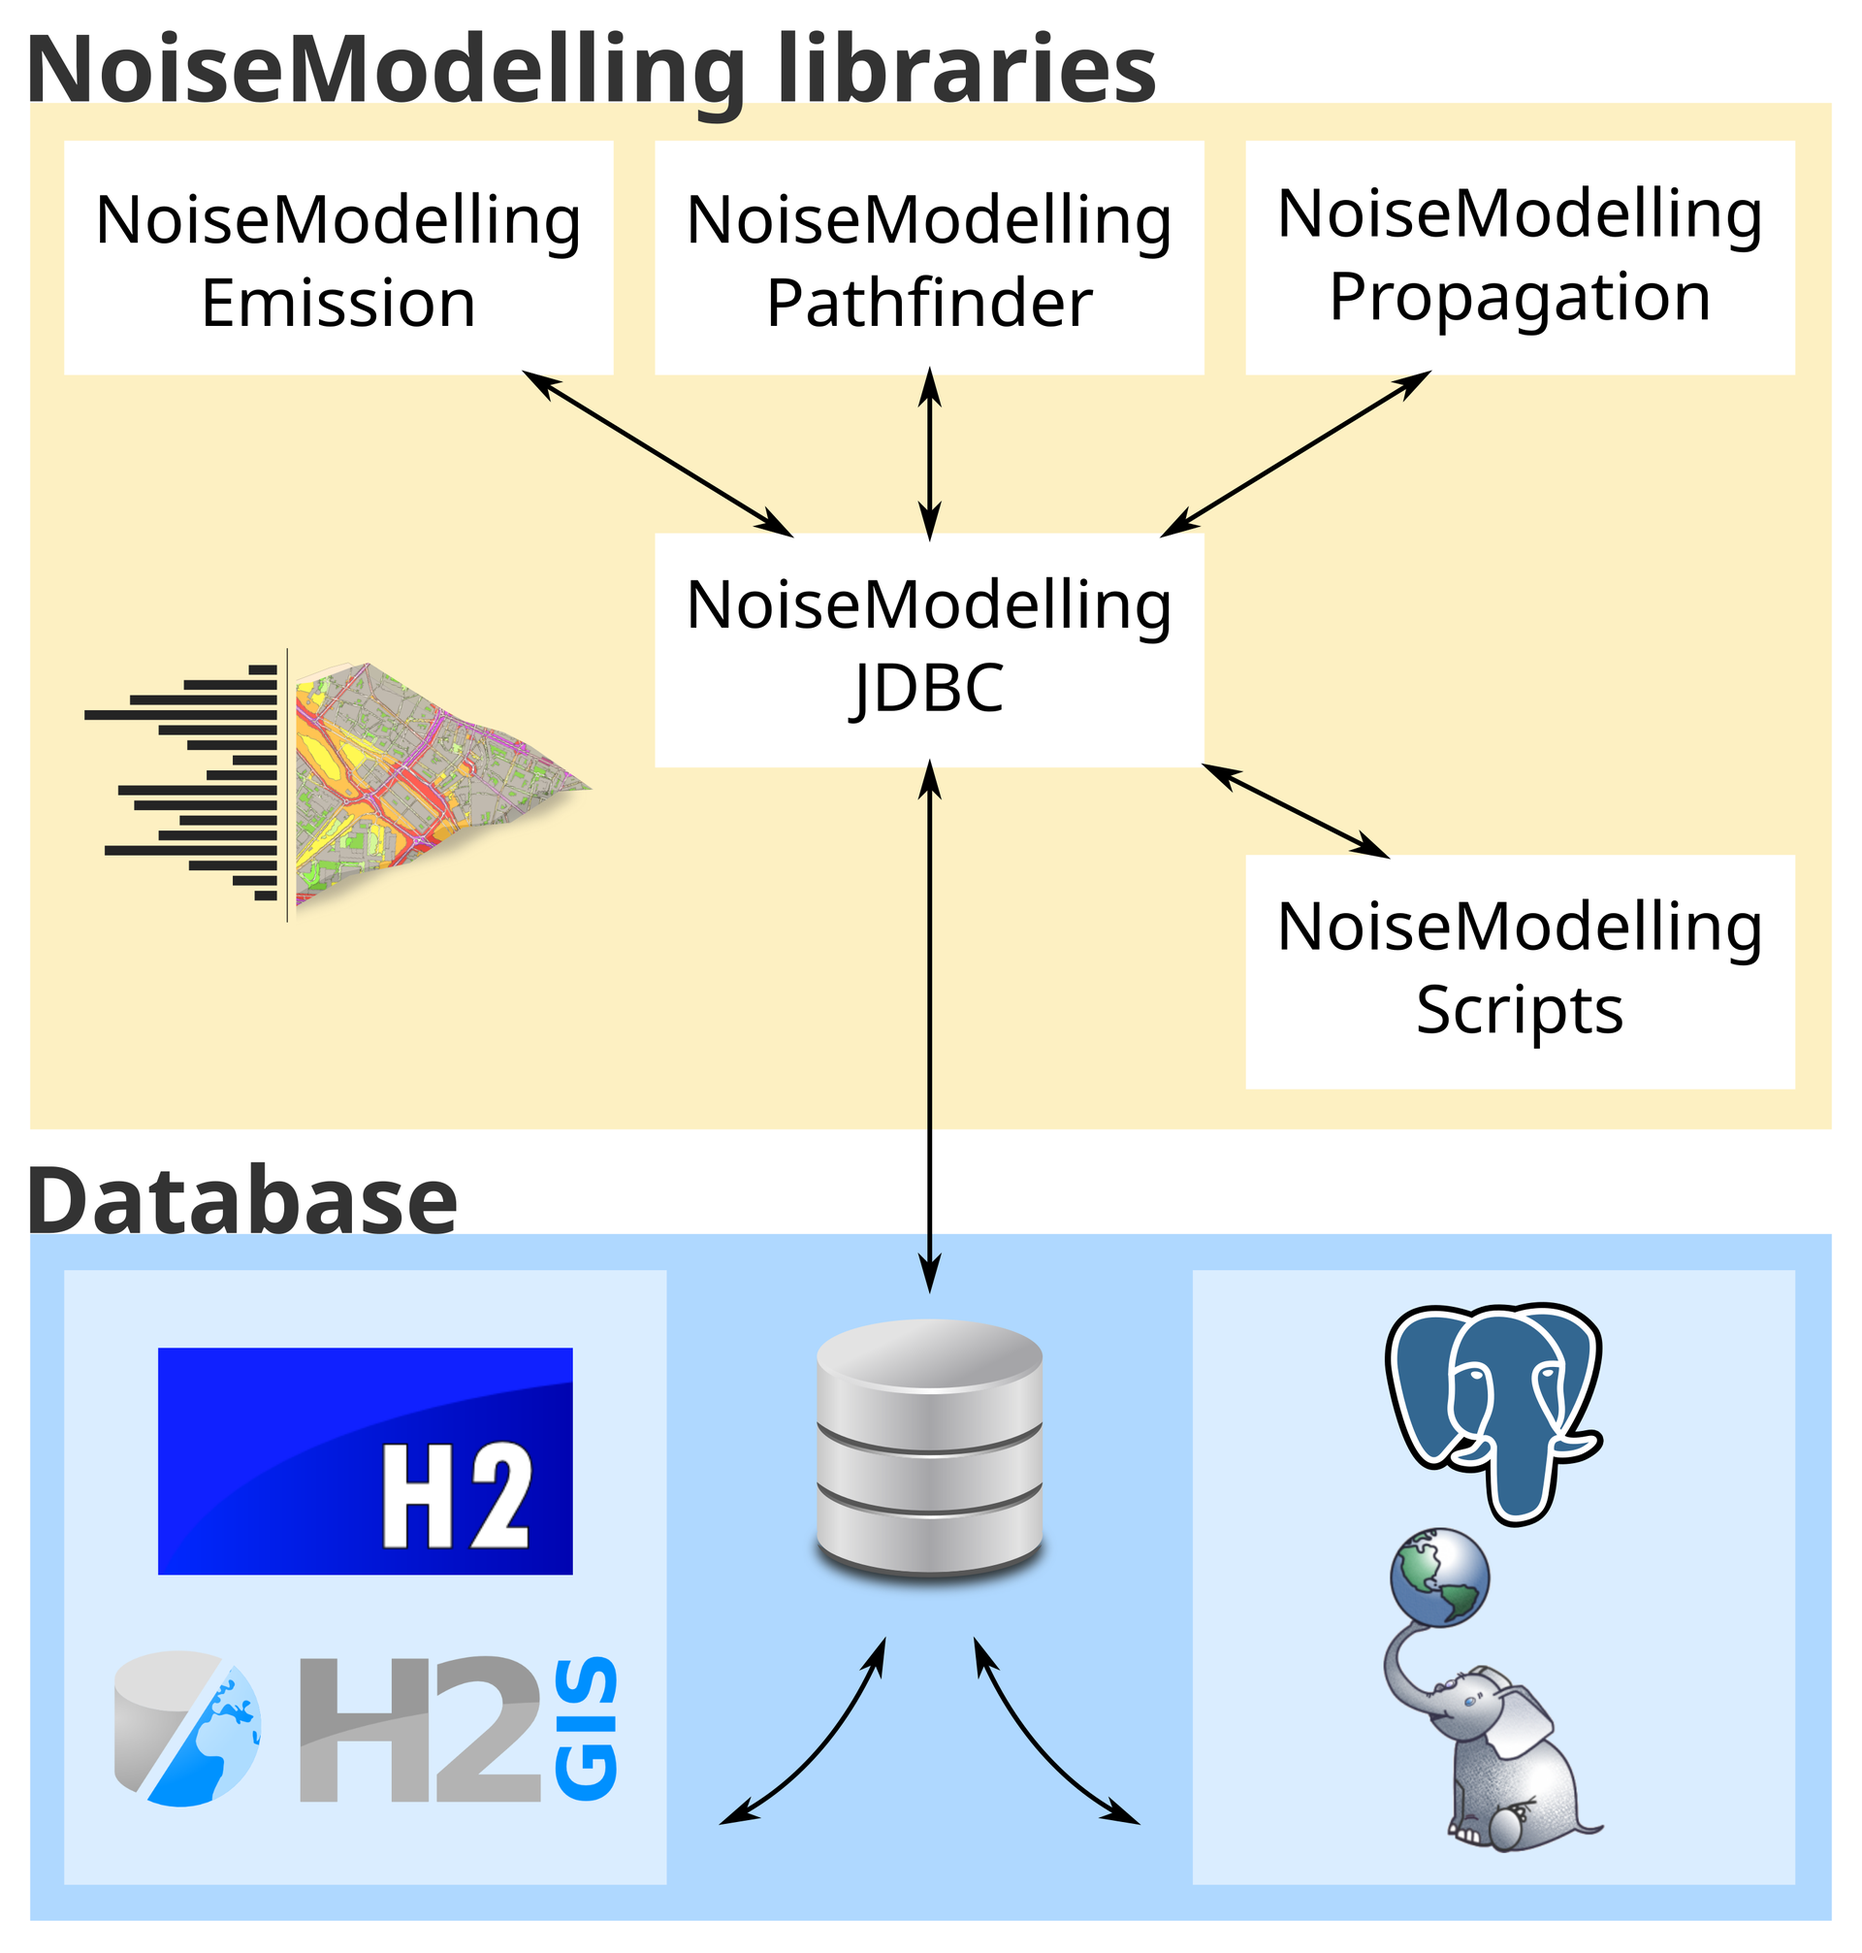
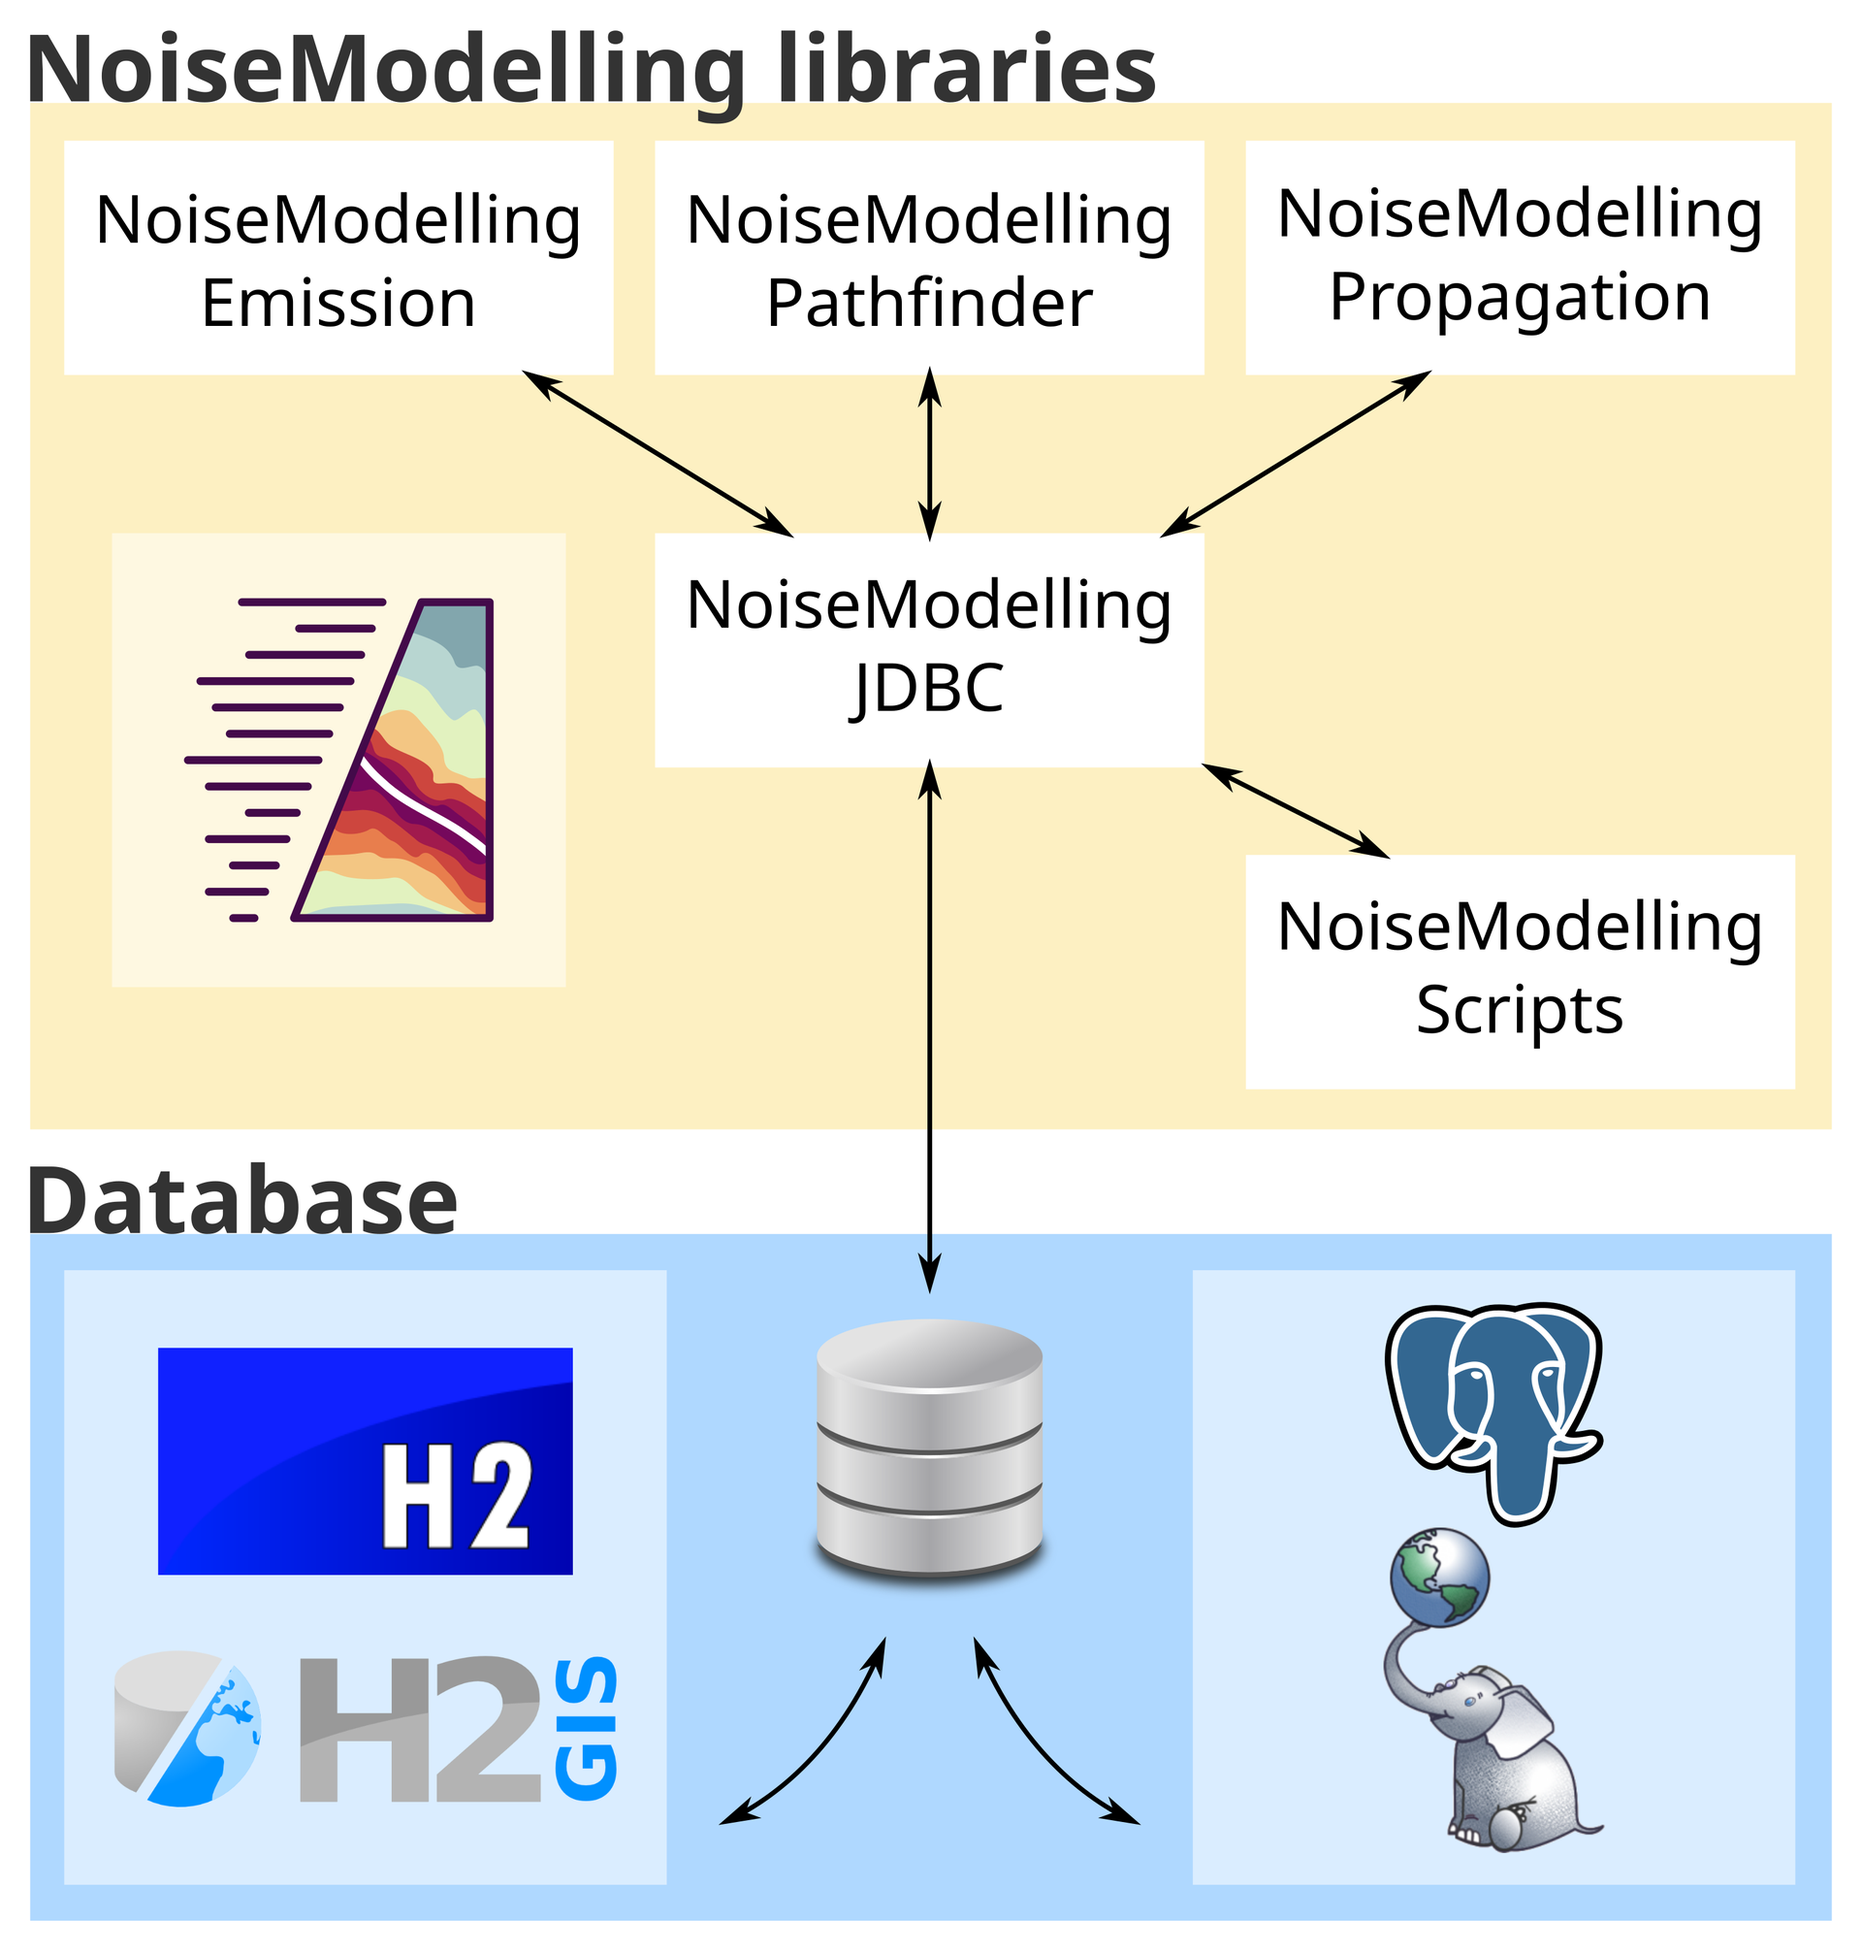
Address JOSS review: paper fixes (#1161)
* Address JOSS review: paper fixes, ISO report title, macOS dmg packaging

Paper (paper.md, paper.bib):
- Mention commercial tools (CadnaA, SoundPLAN, Predictor-LimA, IMMI)
  in the state of the field
- Cite Bocher et al. 2019 (IJGI, doi:10.3390/ijgi8030130) 
- Name and link the ISO/TR 17534-4 conformity page instead of
  "a dedicated document"
- Fix typos ("librairies", missing "a", space before colon) and
  reorder/normalize the module list

* new logo

* update Cnossos report iso ref

* Update paper.md

* Update paper.bib

* Update paper.md

* Keep only JOSS paper changes on this branch

Docs, packaging and CI changes moved to branch macos-dmg-docs-ci.

* nano change

---------

Changed region(s): [[0.0312, 0.2464, 0.3125, 0.5236]]

diff --git a/paper/paper.md b/paper/paper.md
@@ -69,13 +69,15 @@ To date, NoiseModelling has been applied in a variety of research projects and p
 - Dynamic noise map from noise sensors with data assimilation methods [@lesieur_data_2021].
 - Noise quantification of specific sources such as sirens [@siliezar_case_2023] or drones [@legriffon_drone_2024]
 
-Other open-source tools can produce noise maps :
+Other open-source tools can produce noise maps:
 
-  - Code_TYMPAN [@edf_code_tympan] is desktop application that focuses on industrial noise and is based on the ISO 9613-2 method.
+  - Code_TYMPAN [@edf_code_tympan] is a desktop application that focuses on industrial noise and is based on the ISO 9613-2 method.
   - OpeNoise Map [@arpa_piemonte_openoise_2024] is a QGis plugin that only implements a simplified version of the CNOSSOS-EU method.
   - The Sound Mapping Tools [@keyel_sound_2017], are open-source Python-based GIS tools designed to model anthropogenic noise propagation in natural ecosystems using SPreAD-GIS [@reed_gis_2012], NMSIMGIS and ISO 9613-2 within an ArcGIS environment.
 
-NoiseModelling therefore occupies a distinctive position by providing CNOSSOS-EU road and railway modelling, sound propagation, three-dimensional spatial processing and an extensible open-source GIS framework in a single modelling environment.
+Commercial software packages such as CadnaA (DataKustik), SoundPLAN (SoundPLAN GmbH), Predictor-LimA (Softnoise) or IMMI (Wölfel) are also used for noise mapping. However, their source code is closed, which prevents users from inspecting, modifying or extending the underlying models, and their licensing costs can be a barrier for research and education.
+
+NoiseModelling, whose GIS-based approach was first described in @bocher_noisemodelling_2019, therefore occupies a distinctive position by providing CNOSSOS-EU road and railway modelling, sound propagation, three-dimensional spatial processing and an extensible open-source GIS framework in a single modelling environment.
 
 # Architecture
 
@@ -88,8 +90,8 @@ NoiseModelling is made of five main Java libraries:
 - noisemodelling-emission: to determine the sound power level of rail or road traffic,
 - noisemodelling-pathfinder: to find the cut profiles between the source-receiver pairs,
 - noisemodelling-propagation: to compute the noise attenuation between the source-receiver pairs,
+- noisemodelling-jdbc: to connect the above libraries to a spatial database,
 - noisemodelling-scripts: utility and processing scripts, exposed through a built-in web server with a graphical interface and through a command-line runner.
-- noisemodelling-jdbc: to connect above librairies to a spatial database,
 
 Note that the noisemodelling-jdbc library (JDBC = Java DataBase Connectivity) is central since it allows all libraries to communicate with each other as soon as the data are stored in a database. A connection wrapper facilitates the connection to the H2 database with its spatial extension H2GIS, as well as to a PostgreSQL database server with the PostGIS spatial extension.
 
@@ -140,7 +142,7 @@ Using the vertical cut profiles given by the path-finding algorithm, other propa
 A major portion of the code base is covered by unit tests.
 
 Tests that cover the model implementations are comparisons between the code and reference documents and independent CNOSSOS-EU implementations. For propagation and path-finding this is the ISO/TR 17534-4:2020 [@iso_isotr_2020]. For emission the comparison is done with independent implementations.
-All discrepancies between our implementation and the references can be identified in the source code through dedicated tests. The most important tests are presented in a dedicated document.
+All discrepancies between our implementation and the references can be identified in the source code through dedicated tests. The comparison with the ISO/TR 17534-4:2020 test cases is presented in the "Conformity to ISO/TR 17534-4:2020" page of the documentation (https://noisemodelling.readthedocs.io/en/latest/Cnossos_Report.html).
 
 # Community
 
